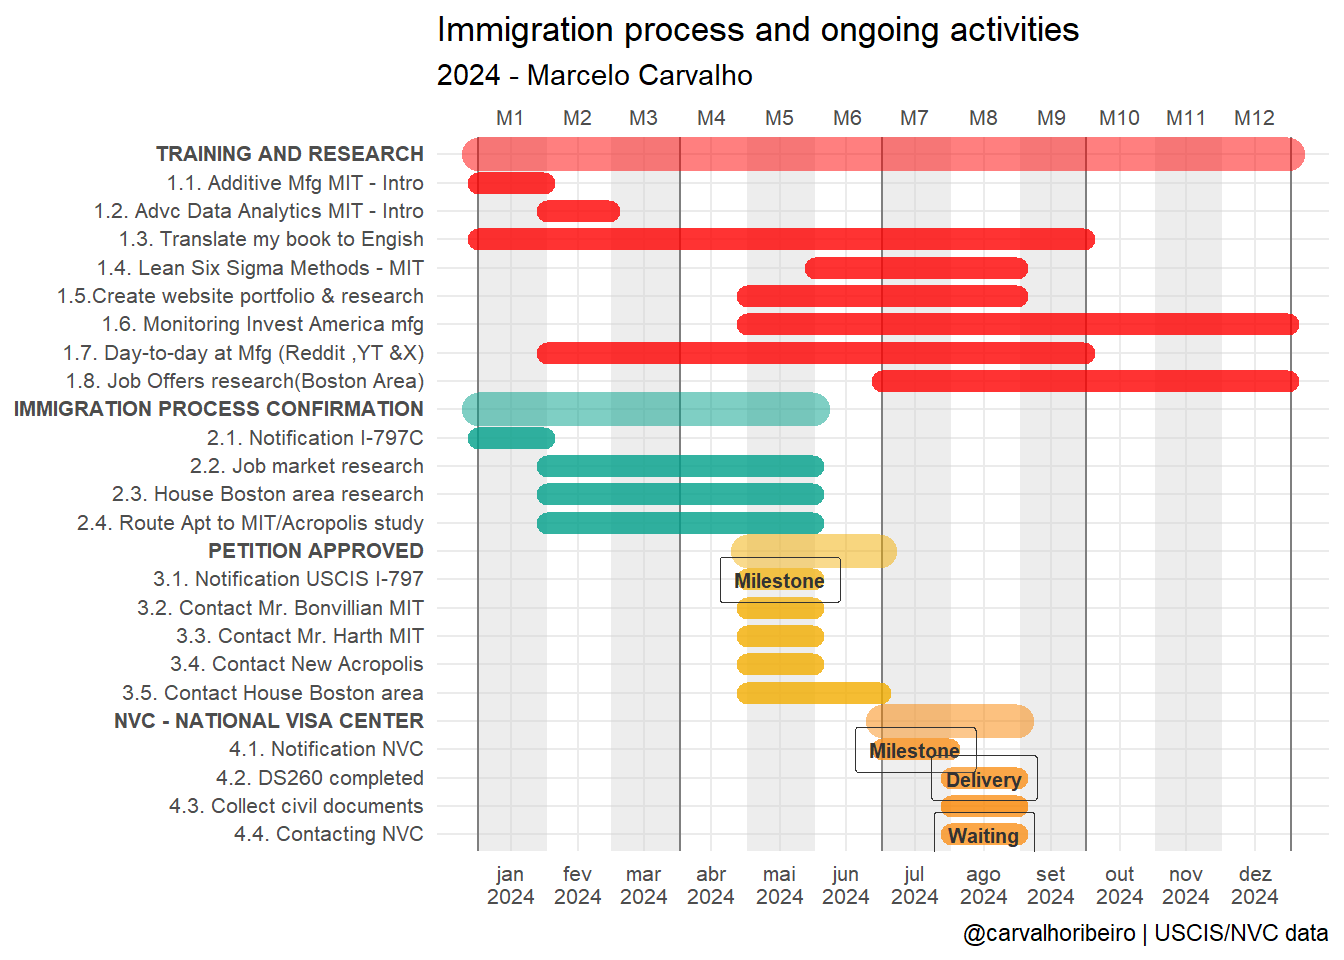
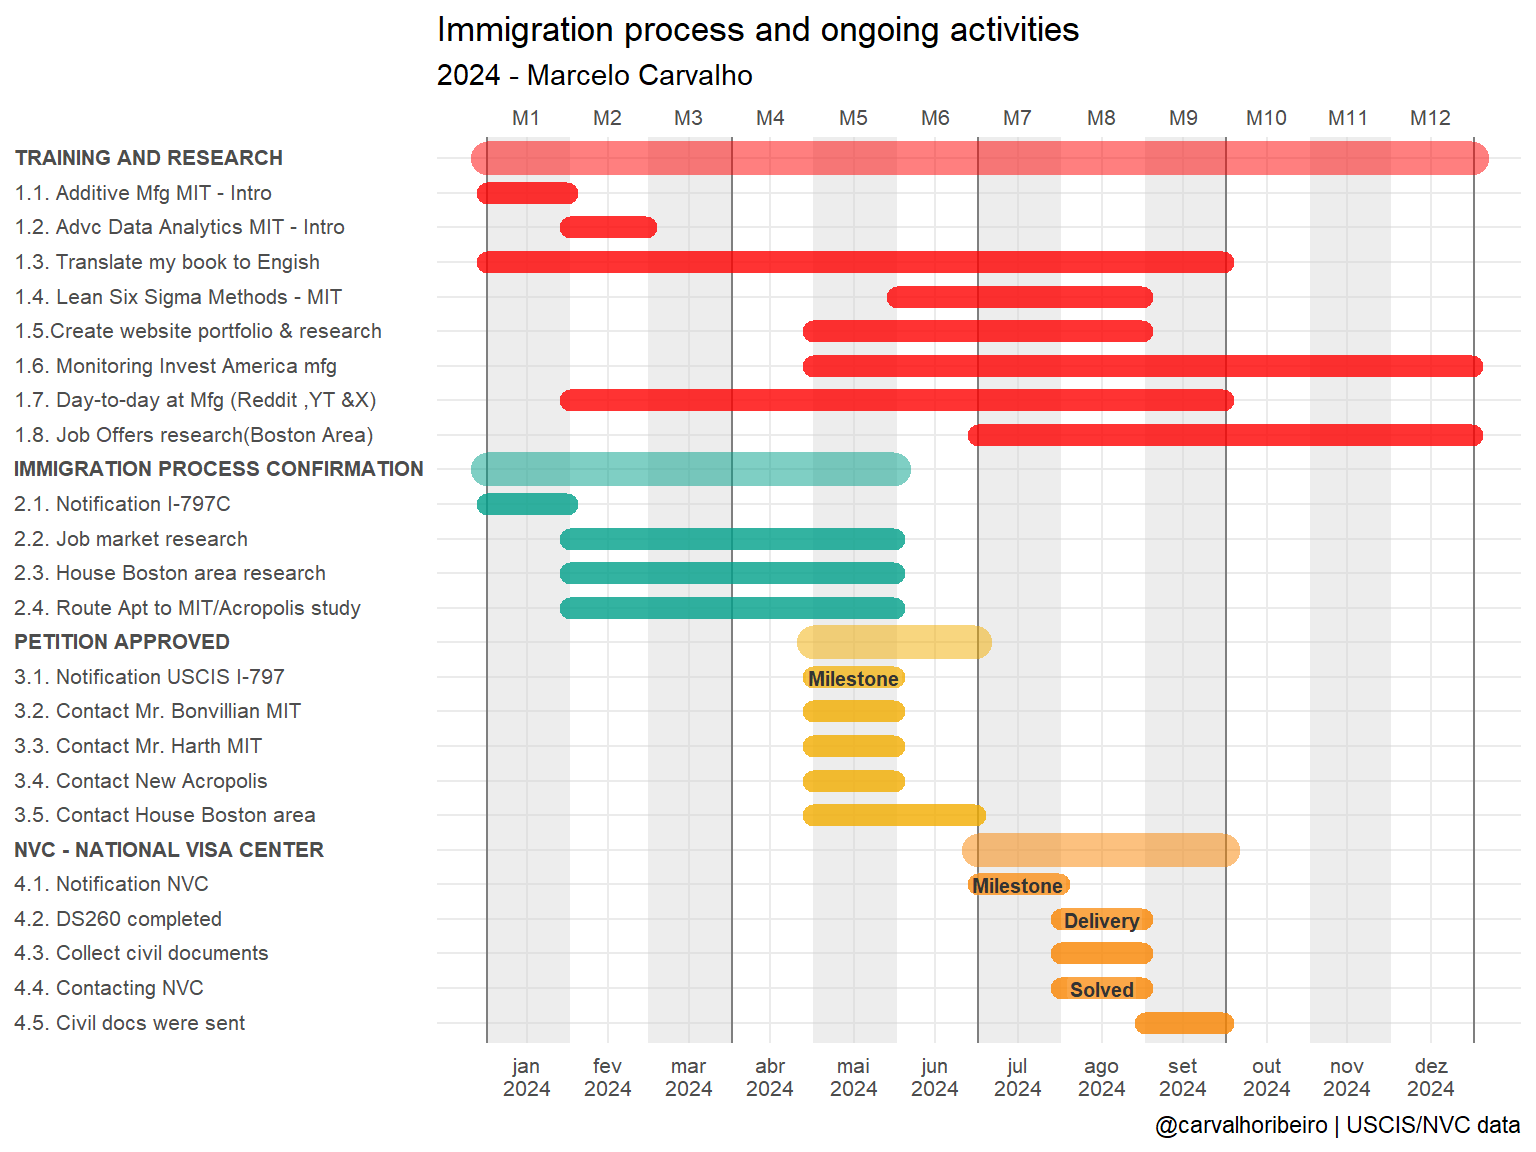
update 3generations report

Changed region(s): [[0.0, 0.0, 1.0, 1.0]]

diff --git a/docs/action-plan-us-advm.html b/docs/action-plan-us-advm.html
@@ -223,11 +223,14 @@ div.csl-indent {
     <h2 id="toc-title">On this page</h2>
    
   <ul>
-  <li><a href="#introduction" id="toc-introduction" class="nav-link active" data-scroll-target="#introduction"><span style="color: #9D0F6A ;"><strong>Introduction</strong></span></a></li>
+  <li><a href="#what-is-advanced-manufacturing" id="toc-what-is-advanced-manufacturing" class="nav-link active" data-scroll-target="#what-is-advanced-manufacturing"><span style="color: #9D0F6A ;"><strong>What is Advanced Manufacturing ?</strong></span></a></li>
+  <li><a href="#what-is-the-goals-and-impact-of-advanced-manufacturing" id="toc-what-is-the-goals-and-impact-of-advanced-manufacturing" class="nav-link" data-scroll-target="#what-is-the-goals-and-impact-of-advanced-manufacturing"><span style="color: #9D0F6A ;"><strong>What is the goals and impact of advanced manufacturing ?</strong></span></a></li>
+  <li><a href="#where-does-the-need-for-a-plan-come-from" id="toc-where-does-the-need-for-a-plan-come-from" class="nav-link" data-scroll-target="#where-does-the-need-for-a-plan-come-from"><span style="color: #9D0F6A ;"><strong>Where does the need for a plan come from?</strong></span></a></li>
   <li><a href="#past-presente-and-future" id="toc-past-presente-and-future" class="nav-link" data-scroll-target="#past-presente-and-future"><span style="color: #9D0F6A ;"><strong>Past, Presente and Future</strong></span></a></li>
   <li><a href="#goals" id="toc-goals" class="nav-link" data-scroll-target="#goals"><span style="color: #9D0F6A ;"><strong>Goals</strong></span></a></li>
-  <li><a href="#what-is-advanced-manufacturing" id="toc-what-is-advanced-manufacturing" class="nav-link" data-scroll-target="#what-is-advanced-manufacturing"><span style="color: #9D0F6A ;"><strong>What is Advanced Manufacturing</strong></span></a></li>
+  <li><a href="#what-is-advanced-manufacturing-1" id="toc-what-is-advanced-manufacturing-1" class="nav-link" data-scroll-target="#what-is-advanced-manufacturing-1"><span style="color: #9D0F6A ;"><strong>What is Advanced Manufacturing</strong></span></a></li>
   <li><a href="#principles-of-advanced-manufacturing" id="toc-principles-of-advanced-manufacturing" class="nav-link" data-scroll-target="#principles-of-advanced-manufacturing"><span style="color: #9D0F6A ;"><strong>Principles of Advanced Manufacturing</strong></span></a></li>
+  <li><a href="#action-plan-overview" id="toc-action-plan-overview" class="nav-link" data-scroll-target="#action-plan-overview"><span style="color: #9D0F6A ;"><strong>ACtion Plan Overview</strong></span></a></li>
   <li><a href="#economic-activities-in-emerging-markets-on-manufacturing" id="toc-economic-activities-in-emerging-markets-on-manufacturing" class="nav-link" data-scroll-target="#economic-activities-in-emerging-markets-on-manufacturing"><span style="color: #9D0F6A ;"><strong>Economic Activities in Emerging Markets on Manufacturing</strong></span></a></li>
   <li><a href="#value-chain" id="toc-value-chain" class="nav-link" data-scroll-target="#value-chain"><span style="color: #9D0F6A ;"><strong>Value Chain</strong></span></a></li>
   <li><a href="#business-model-and-cultural-transformation" id="toc-business-model-and-cultural-transformation" class="nav-link" data-scroll-target="#business-model-and-cultural-transformation"><span style="color: #9D0F6A ;"><strong>Business Model and Cultural transformation</strong></span></a></li>
@@ -256,40 +259,57 @@ div.csl-indent {
 </header>
 
 
-<p>In this space I make notes about reading these ideas to better understand their importance and impact on the country’s development.</p>
 <p>This summary is based on <span class="citation" data-cites="helwig2024">Helwig and Goldman (<a href="#ref-helwig2024" role="doc-biblioref">2024</a>)</span> and is intended to help me enhance my writing skills and deepen my understanding of the English language, all while engaging in what I enjoy most: Business Analysis and Process Improvement.</p>
 <p>The texts may contain typos, imcomplete thoughts, and will be subject to ongoing revision and develppment. In addition to the primary document used to create this summary, I have also drawn upon the reference documents cited within. I have reviewed this secondary sources and extracted relevant concepts that have contributed to my understanding and learning.</p>
-<section id="introduction" class="level3">
-<h3 class="anchored" data-anchor-id="introduction"><span style="color: #9D0F6A ;"><strong>Introduction</strong></span></h3>
+<section id="what-is-advanced-manufacturing" class="level3">
+<h3 class="anchored" data-anchor-id="what-is-advanced-manufacturing"><span style="color: #9D0F6A ;"><strong>What is Advanced Manufacturing ?</strong></span></h3>
 <ul>
-<li><p>Driven by demographic shifts, economic growth in emerging markets, climate change, and disruptive technologies, a core set innovations ranging from AI and intelligent robotics to additive manufacturing and digital twins are converging to revolutionize industrial production.</p></li>
-<li><p>Integration of machining, networking, sensing, and computation capability.</p></li>
-<li><p>Design and production of physical goods.</p></li>
-<li><p>Ability to adopt and improve these paradigms.</p></li>
+<li><p>Advanced manufacturing refers to the use of innovative technology, process and methods(e.g.&nbsp;intelligent robotics, additive manufacturing, digital twins, and lean principles) to accelerate the design and production of physical goods in the material world.</p></li>
+<li><p>This approach depends on the close integration of machining, networking, sensing, and computational capabilities (e.g automation, robotics, 3D printing, artificial intelligence, and internet of things(IoT) devices into the manufacturing process.</p></li>
 </ul>
+</section>
+<section id="what-is-the-goals-and-impact-of-advanced-manufacturing" class="level3">
+<h3 class="anchored" data-anchor-id="what-is-the-goals-and-impact-of-advanced-manufacturing"><span style="color: #9D0F6A ;"><strong>What is the goals and impact of advanced manufacturing ?</strong></span></h3>
+<ul>
+<li><p><strong>Increased productivity</strong>: Automation can streamline production processes,reducing cycle times and labor cost.</p></li>
+<li><p><strong>Cost reduction</strong>: By optimizing processes and reducing waste.</p></li>
+<li><p><strong>Supply Chain Optimization</strong>: IoT and data analytics can improve visibility and efficiency, reducing lead times and inventory costs.</p></li>
+<li><p><strong>Job creating and skill requirements</strong>: New opportunities in fields like robotics programming, data analysis, and maintenance of advanced machinery.</p></li>
+<li><p><strong>Improved Quality</strong>: High precision, uniformity and consistency in production.</p></li>
+<li><p><strong>Customization and Flexibility</strong>: 3D printing enable on-demand manufacturing of higly customized products without the need for retooling.</p></li>
+<li><p><strong>Environmental Impact</strong>: By reducing material waste, energy consumption, and gas emissions.</p></li>
+</ul>
+</section>
+<section id="where-does-the-need-for-a-plan-come-from" class="level3">
+<h3 class="anchored" data-anchor-id="where-does-the-need-for-a-plan-come-from"><span style="color: #9D0F6A ;"><strong>Where does the need for a plan come from?</strong></span></h3>
 </section>
 <section id="past-presente-and-future" class="level3">
 <h3 class="anchored" data-anchor-id="past-presente-and-future"><span style="color: #9D0F6A ;"><strong>Past, Presente and Future</strong></span></h3>
 <p><strong>Past</strong></p>
-<p>Industrial revolution 1865, Carnegie, bessemer process etc.</p>
-<p>Boston Power lithium ion battery technologies</p>
-<p>Ford, Packard, WWII, Inovations, Deming</p>
-<p>Exit Zero, American Story, Rust Belt - First Impressions, Rust Belt - City’s economic Struggle</p>
-<p>Introduction to Lean Six Sigma Methods by MIT Aeronautics Engineering System Division</p>
-<p><strong>Present</strong></p>
-<p>Chips and Science Act and Research and Development, Competition, and Innovation Ac</p>
-<p>Inflation Reduction Act</p>
-<p>Invest in America</p>
-<p>Workforce Education</p>
-<p>Action plan for Manufacturing in US</p>
-<p>Ambitious of industrialize, build the factories, Supply chain, and vertically integrate those Supply chains together.</p>
-<p>Our Next Energy raised capital of 1B+ to generate 20 GWh for battery.</p>
+<ul>
+<li><p>Shortening distances, improving the flow of traded goods: Erie Canal navigable waterway connecting the great lakes to the atlantic ocean completed in 1825. The objective was to develop the city of New York, which was a point of communication with the world(e.g.&nbsp;port of trade hub), and opened up the MidWest for settlement and agricultural expansion, impacting the marginal product of labor <span class="citation" data-cites="kaiman2024">Kaiman, Vandenbroucke, and Wolla (<a href="#ref-kaiman2024" role="doc-biblioref">2024</a>)</span>. The canal also had profound societal impacts shaping the nation’s economic development in the 19th century:</p>
+<ul>
+<li><p>It spurred westward migration, enhance commercial trade between regions.</p></li>
+<li><p>It contibuted to the rise of new towns along its route.</p></li>
+<li><p>It facilitated cultural and political unity between the Northest and the expanding western territories.</p></li>
+</ul></li>
+<li><p>Making better products, faster and cheaper: The idea of the the Bessemer process was observed and described by a german adventurer Johan Mandelsio in 1669 during a trip to Japan, was patented by Henry Bessemer in 1855 in U.S., and pupularized by Andrew Carnegie a visionary implementer in 1865, which allowed the expansion of the creation of time machines(e.g.&nbsp;bridges, ships, trains, elevators, pipes for oil and water, and vertical constructions).</p></li>
+<li><p>Data-driven and business improvements: Improvements in the petroleum refining process using scientific methods, commercial partnerships in search of efficiency in operations, along with product standardization and uniformity. These factors enhanced Rockefeller’s natural leadership capabilities.</p></li>
+<li><p>Redefine customer values: Ford, Packard, Apple,</p></li>
+<li><p>Low levels of stress and anxiety: There is a potential association between consistently low levels of stress and anxiety (particularly when individuals or organizations remain in their confort zones) and a loss of economic competitiveness. While confort zone is beneficial for maintaining mental and physical health, can also lead to complacency. Moderate stressors encourage problem-solving, innovation, and adoption fo new technologies. Also reduced risk-taking and avoid the risks required to adapt to amrket changes or develop new products. In the short term, it can maintain stable productivity, in the long term a lack of challenge and growth opportunities can lead to decreased motivation and creativity. Stress is a know driver of cognitive adaptation which is crucial for maintaining productivity in dynamic economic environments. This type of behavior and its consequences could be observed in the 1980s in the United States <span class="citation" data-cites="justarandomchannel2019">JustARandomChannel (<a href="#ref-justarandomchannel2019" role="doc-biblioref">2019</a>)</span> <span class="citation" data-cites="petersantenello2024">Peter Santenello (<a href="#ref-petersantenello2024" role="doc-biblioref">2024</a>)</span> <span class="citation" data-cites="frontlinepbs2024b">FRONTLINE PBS (<a href="#ref-frontlinepbs2024b" role="doc-biblioref">2024</a>)</span> and currently in 2024 in Germany <span class="citation" data-cites="dwnews2024">DW News (<a href="#ref-dwnews2024" role="doc-biblioref">2024</a>)</span>.</p></li>
+<li><p><strong>Present</strong></p></li>
+<li><p>Disruptive technologies: New ideas or old ones that can now be explored with existing technology(e.g.&nbsp;computational capability, atomic computer vision) and new ways to getting to ideas.</p></li>
+<li><p>Demographic shifts around the world: People are getting older and more urban.</p></li>
+<li><p>Economic activities in emerging markets: Many countries are emerging from poverty, generating new demands and comparative advantages.</p></li>
+<li><p>Climate change: New rules to take care of the environment, improving the capacity to adapt and interact with the environment by creating new products and services.</p></li>
+</ul>
 <p><strong>Future</strong></p>
-<p>Consistence and Competitiveness on Manufacturing</p>
-<p>Personal Finance</p>
-<p>Manufacturing base</p>
-<p>Energy Storage</p>
-<p>Consistence and Competitiveness on Manufacturing</p>
+<ul>
+<li><p>Consistence and Competitiveness on Manufacturing</p></li>
+<li><p>Personal Finance</p></li>
+<li><p>Manufacturing base</p></li>
+<li><p>Energy Storage</p></li>
+</ul>
 </section>
 <section id="goals" class="level3">
 <h3 class="anchored" data-anchor-id="goals"><span style="color: #9D0F6A ;"><strong>Goals</strong></span></h3>
@@ -300,8 +320,8 @@ div.csl-indent {
 </figure>
 </div>
 </section>
-<section id="what-is-advanced-manufacturing" class="level3">
-<h3 class="anchored" data-anchor-id="what-is-advanced-manufacturing"><span style="color: #9D0F6A ;"><strong>What is Advanced Manufacturing</strong></span></h3>
+<section id="what-is-advanced-manufacturing-1" class="level3">
+<h3 class="anchored" data-anchor-id="what-is-advanced-manufacturing-1"><span style="color: #9D0F6A ;"><strong>What is Advanced Manufacturing</strong></span></h3>
 <ul>
 <li><p>Application of digital technologies to the physical world and inovation in the world of atoms for process innovation, or alterations to the manufacturing process that improve how thigs are built. As a result, scale that was previously impossible, cost reduction, and value-added products in shorter cycles.</p></li>
 <li><p>Talk about transition from digitalization to industrial AI and advanced data analytics role, and lean principles.</p></li>
@@ -320,6 +340,18 @@ div.csl-indent {
 <li><p>Talk about R&amp;D</p></li>
 <li><p>Talk about quality, variation, uniformity, deming cycle, shewhart chart etc.</p></li>
 <li><p>Talk about scale the materials genome initiative page 23</p></li>
+</ul>
+</section>
+<section id="action-plan-overview" class="level3">
+<h3 class="anchored" data-anchor-id="action-plan-overview"><span style="color: #9D0F6A ;"><strong>ACtion Plan Overview</strong></span></h3>
+<ul>
+<li><p>Chips and Science Act and Research and Development, Competition, and Innovation Ac</p></li>
+<li><p>Inflation Reduction Act</p></li>
+<li><p>Invest in America</p></li>
+<li><p>Workforce Education</p></li>
+<li><p>Action plan for Manufacturing in US</p></li>
+<li><p>Ambitious of industrialize, build the factories, Supply chain, and vertically integrate those Supply chains together.</p></li>
+<li><p>Our Next Energy raised capital of 1B+ to generate 20 GWh for battery.</p></li>
 </ul>
 </section>
 <section id="economic-activities-in-emerging-markets-on-manufacturing" class="level3">
@@ -373,8 +405,23 @@ div.csl-indent {
 <div id="ref-anjos2024" class="csl-entry" role="listitem">
 Anjos, Marcelo Carvalho dos. 2024. <em>Método PDCA e Ferramentas Da Qualidade</em>. <a href="https://factorialmap.github.io/pdca/">https://factorialmap.github.io/pdca/</a>.
 </div>
+<div id="ref-dwnews2024" class="csl-entry" role="listitem">
+DW News. 2024. <span>“Can Volkswagen Survive? | DW Business,”</span> September. <a href="https://www.youtube.com/watch?v=TBT1POIMpBw">https://www.youtube.com/watch?v=TBT1POIMpBw</a>.
+</div>
+<div id="ref-frontlinepbs2024b" class="csl-entry" role="listitem">
+FRONTLINE PBS. 2024. <span>“A Rust Belt City<span>’</span>s Economic Struggle | Left Behind America (Documentary) | FRONTLINE + ProPublica,”</span> May. <a href="https://www.youtube.com/watch?v=m7-Te7JEqrQ">https://www.youtube.com/watch?v=m7-Te7JEqrQ</a>.
+</div>
 <div id="ref-helwig2024" class="csl-entry" role="listitem">
 Helwig, Brady, and Addis Goldman. 2024. <span>“Natianal Action Plan for United States Leadership in Advanced Manufacturing.”</span> <a href="https://www.scsp.ai/wp-content/uploads/2024/06/Advanced-Manufacturing-Action-Plan.pdf">https://www.scsp.ai/wp-content/uploads/2024/06/Advanced-Manufacturing-Action-Plan.pdf</a>.
+</div>
+<div id="ref-justarandomchannel2019" class="csl-entry" role="listitem">
+JustARandomChannel. 2019. <span>“Exit Zero - an Industrial Family Story (Documentary),”</span> September. <a href="https://www.youtube.com/watch?v=WyK5PBLPn0I">https://www.youtube.com/watch?v=WyK5PBLPn0I</a>.
+</div>
+<div id="ref-kaiman2024" class="csl-entry" role="listitem">
+Kaiman, Mike, Guillaume Vandenbroucke, and Scott Wolla. 2024. <span>“Marginal Product of Labor and U.S. Westward Expansion.”</span> <a href="https://www.stlouisfed.org/publications/page-one-economics/2024/sep/marginal-product-labor-us-westward-expansion">https://www.stlouisfed.org/publications/page-one-economics/2024/sep/marginal-product-labor-us-westward-expansion</a>.
+</div>
+<div id="ref-petersantenello2024" class="csl-entry" role="listitem">
+Peter Santenello. 2024. <span>“The Rust Belt - First Impressions 🇺🇸,”</span> July. <a href="https://www.youtube.com/watch?v=2qZDkXNgbwQ">https://www.youtube.com/watch?v=2qZDkXNgbwQ</a>.
 </div>
 <div id="ref-treacy1993" class="csl-entry" role="listitem">
 Treacy, Michael, and Fred Wiersema. 1993. <span>“Customer Intimacy and Other Value Disciplines.”</span> <em>Harvard Business Review</em>, January. <a href="https://hbr.org/1993/01/customer-intimacy-and-other-value-disciplines">https://hbr.org/1993/01/customer-intimacy-and-other-value-disciplines</a>.

diff --git a/docs/projects.html b/docs/projects.html
@@ -333,8 +333,8 @@ ul.task-list li input[type="checkbox"] {
 </section>
 <section id="goals-3" class="level3">
 <h3 class="anchored" data-anchor-id="goals-3"><span style="color: #9D0F6A ;"><strong>Goals</strong></span></h3>
+<p>Initially, I was responsible for scaling up supply chain operations, ensuring high-quality service delivery, implementing digital solutions(including ERP and Business Intelligence systems), process mapping, documentation, and training personnel to support theses initiatives. Later, I was invited to participate in the company’s strategic discussion using data to enable them to make fine-tuned judgments, and the goals expanded to:</p>
 <ul>
-<li><p>Initially, I was responsible for scaling up supply chain operations, ensuring high-quality service delivery, implementing digital solutions(including ERP and Business Intelligence systems), process mapping, documentation, and training personnel to support theses initiatives. Later, I was invited to participate in the company’s strategic discussion using data to enable them to make fine-tuned judgments, and the goals expanded to:</p></li>
 <li><p>Quickly identify macroeconomic scenarios, protecting capital, and optimizing cash flow to ensure financial stability.</p></li>
 <li><p>Improve the service experience for existing customers.</p></li>
 <li><p>Better understand who our potential customers are and how to attract them.</p></li>

diff --git a/docs/calendar.html b/docs/calendar.html
@@ -236,7 +236,7 @@ ul.task-list li input[type="checkbox"] {
 <div class="cell-output-display">
 <div>
 <figure class="figure">
-<p><img src="calendar_files/figure-html/unnamed-chunk-1-1.png" class="img-fluid figure-img" width="672"></p>
+<p><img src="calendar_files/figure-html/unnamed-chunk-1-1.png" class="img-fluid figure-img" width="768"></p>
 </figure>
 </div>
 </div>
@@ -264,6 +264,7 @@ ul.task-list li input[type="checkbox"] {
 <li><p><strong>4.2. DS260 completed:</strong> Submission of documents</p></li>
 <li><p><strong>4.3. Collect civil documents:</strong> Request and collection of civil documents</p></li>
 <li><p><strong>4.4. Contacting NVC:</strong></p></li>
+<li><p><strong>4.5. Civil docs were sent:</strong></p></li>
 </ul>
 
 

diff --git a/docs/index.html b/docs/index.html
@@ -166,7 +166,7 @@ ul.task-list li input[type="checkbox"] {
 <section id="education" class="level3">
 <h3 data-anchor-id="education"><span style="color: #9D0F6A ;"><strong>Education</strong></span></h3>
 <ul>
-<li>Master’s Degree - Agro-industrial production &amp; Management</li>
+<li>Master’s Degree - Agro-industrial Production &amp; Management</li>
 <li>Bachelor’s Degree - Business Administration</li>
 </ul>
 </section>
